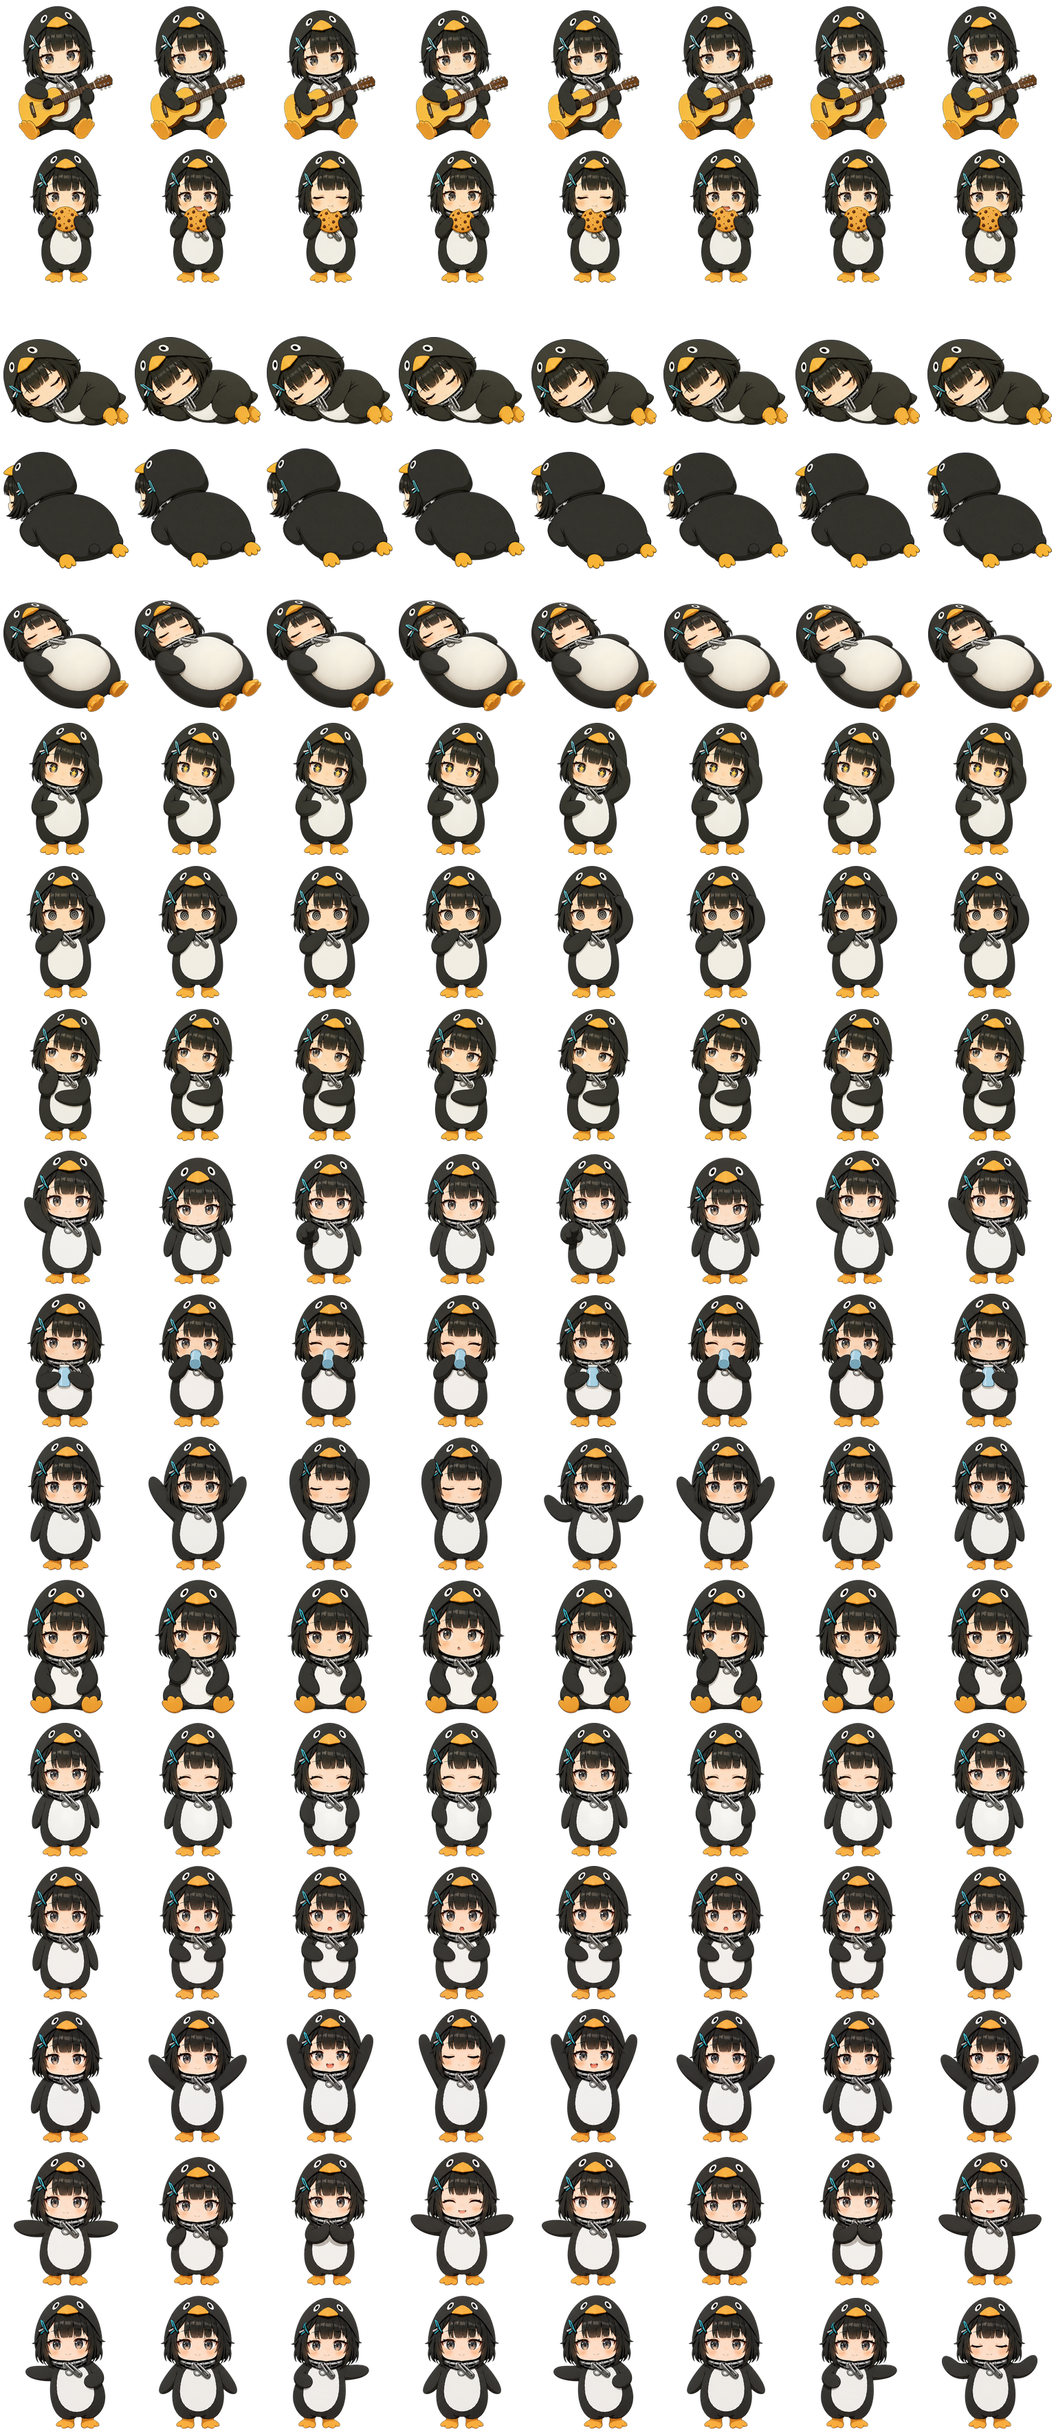
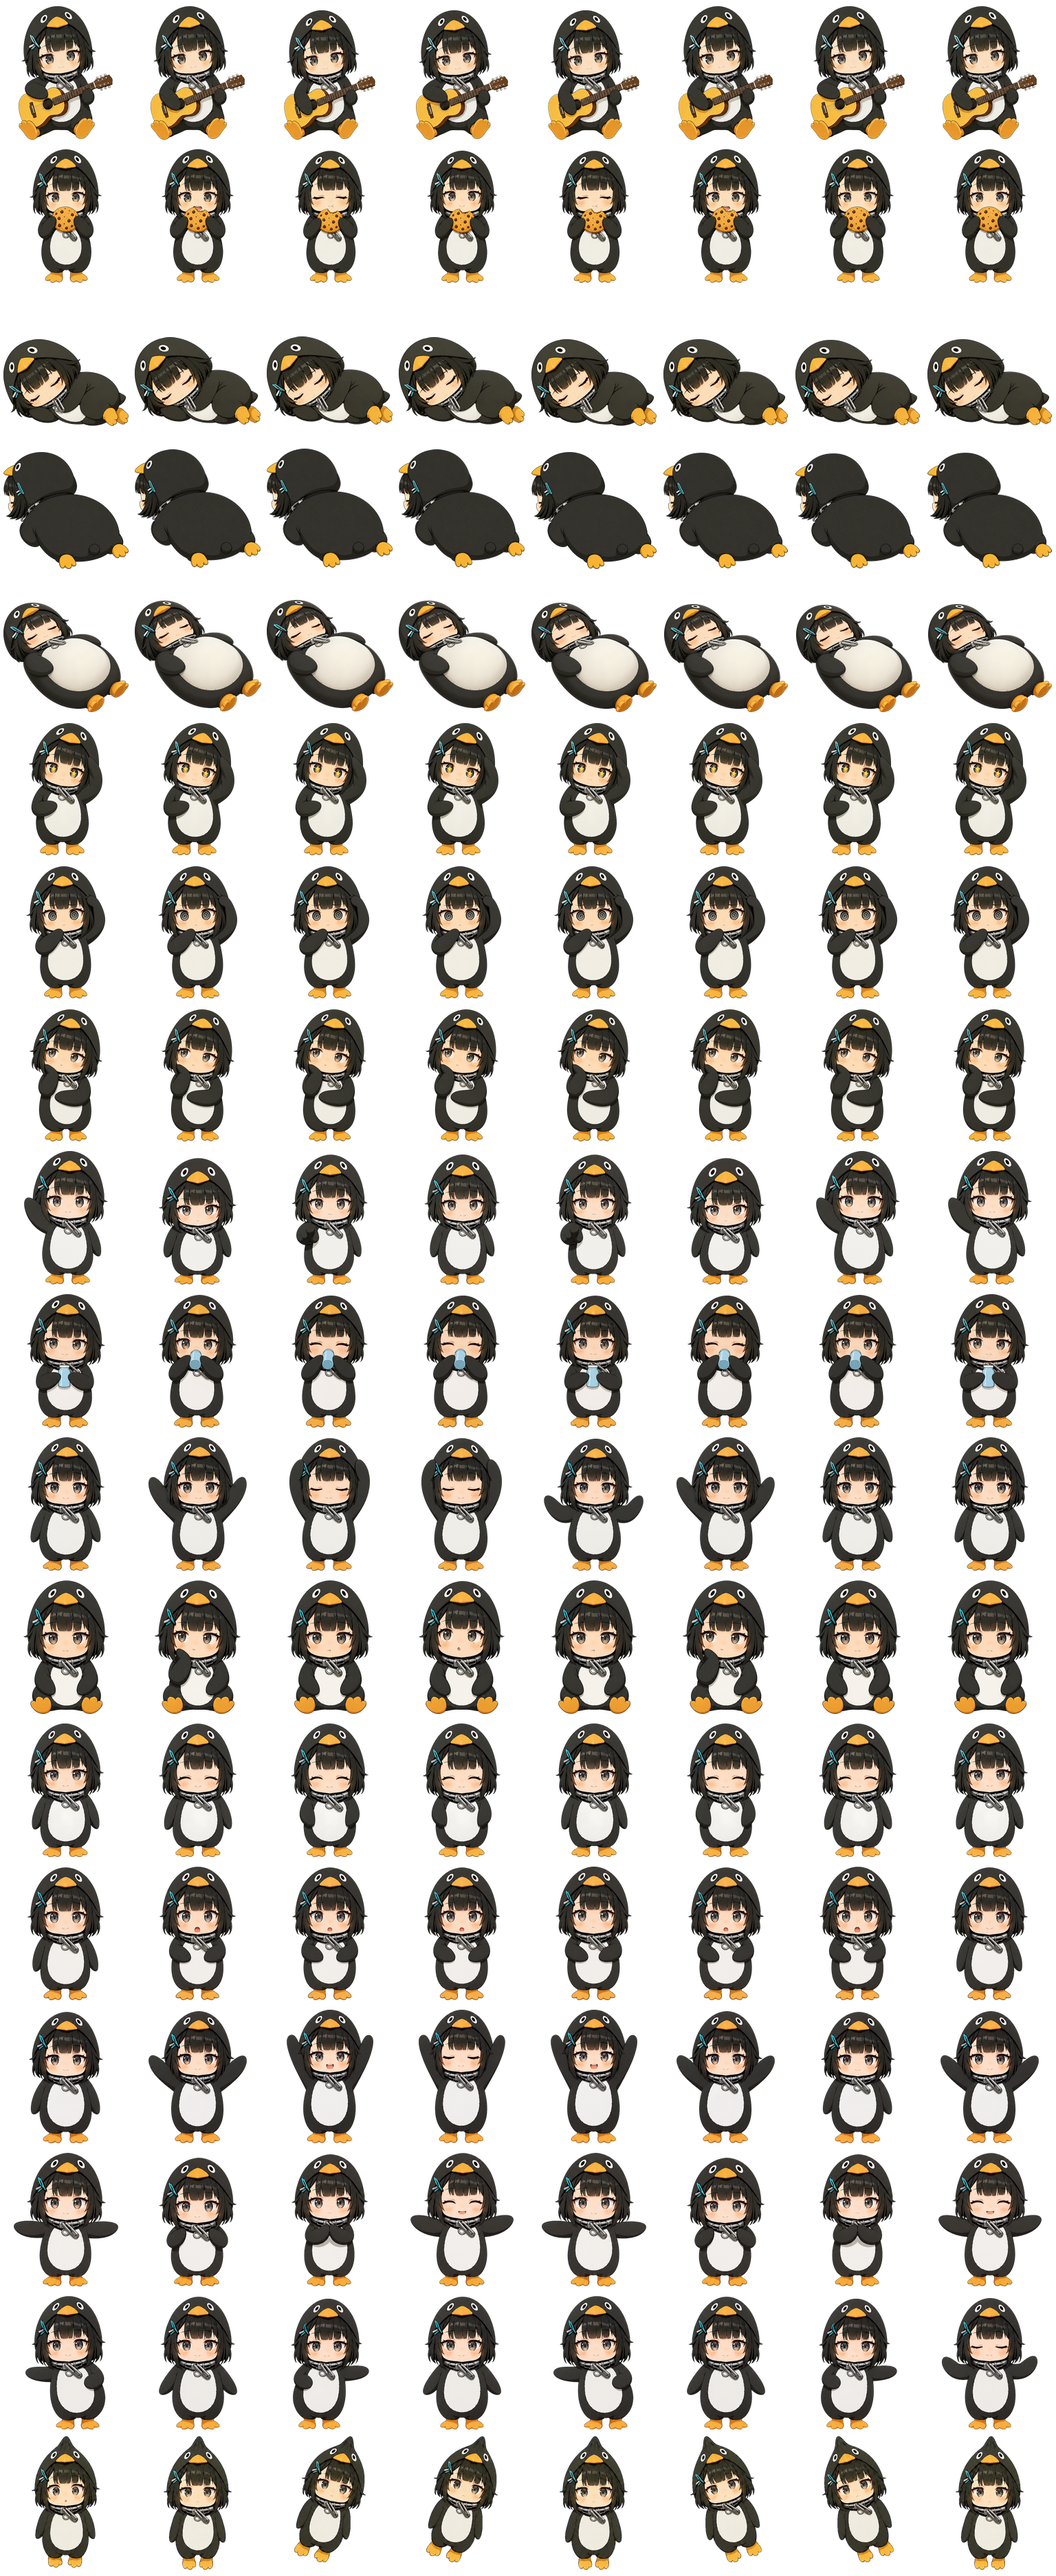
feat: add hood-lift drag animation

diff --git a/tools/build_idle_atlas.py b/tools/build_idle_atlas.py
@@ -11,6 +11,7 @@ CONCEPTS = ROOT.parent / "work" / "gugu-idle-concepts" / "generated"
 THINKING = ROOT.parent / "work" / "gugu-thinking-concepts"
 PERSONALITY = ROOT.parent / "work" / "gugu-personality-actions" / "generated"
 CELEBRATIONS = ROOT.parent / "work" / "gugu-completion-celebrations" / "generated"
+PASSIVE_DRAG = ROOT.parent / "work" / "gugu-passive-drag" / "generated"
 OUTPUT = ROOT / "Assets" / "idle-actions.png"
 
 CELL_W = 192
@@ -35,6 +36,7 @@ ROWS = (
     ("celebrate-cheer", "gugu-celebration-cheer-keyposes-transparent.png"),
     ("celebrate-clap", "gugu-celebration-clap-keyposes-transparent.png"),
     ("celebrate-dance", "gugu-celebration-dance-keyposes-transparent.png"),
+    ("passive-drag", "gugu-passive-drag-keyposes-transparent.png"),
 )
 
 KEYPOSE_FILES = {
@@ -49,6 +51,7 @@ KEYPOSE_FILES = {
     "celebrate-cheer": "gugu-celebration-cheer-keyposes-transparent.png",
     "celebrate-clap": "gugu-celebration-clap-keyposes-transparent.png",
     "celebrate-dance": "gugu-celebration-dance-keyposes-transparent.png",
+    "passive-drag": "gugu-passive-drag-keyposes-transparent.png",
 }
 
 KEYPOSE_SEQUENCE = {
@@ -65,6 +68,8 @@ KEYPOSE_SEQUENCE = {
     "celebrate-cheer": (0, 1, 2, 3, 2, 1, 0, 1),
     "celebrate-clap": (0, 1, 2, 3, 0, 1, 2, 3),
     "celebrate-dance": (0, 1, 2, 1, 0, 1, 2, 3),
+    # Lift, centered hang, screen-left lag, centered, then screen-right lag.
+    "passive-drag": (0, 1, 2, 2, 1, 3, 3, 1),
 }
 
 
@@ -115,9 +120,10 @@ def load_keyposes(path: Path) -> list[Image.Image]:
     ]
 
 
-def place_pose(pose: Image.Image) -> Image.Image:
+def place_pose(pose: Image.Image, *, anchor_top: bool = False) -> Image.Image:
     frame = Image.new("RGBA", (CELL_W, CELL_H), (0, 0, 0, 0))
-    frame.alpha_composite(pose, ((CELL_W - pose.width) // 2, CELL_H - pose.height - 5))
+    y = 5 if anchor_top else CELL_H - pose.height - 5
+    frame.alpha_composite(pose, ((CELL_W - pose.width) // 2, y))
     return frame
 
 
@@ -172,14 +178,20 @@ def transformed_frame(source: Image.Image, row_name: str, phase: float) -> Image
 def main() -> None:
     atlas = Image.new("RGBA", (CELL_W * FRAMES, CELL_H * len(ROWS)), (0, 0, 0, 0))
     for row, (row_name, filename) in enumerate(ROWS):
-        keypose_root = CELEBRATIONS if row_name.startswith("celebrate-") else PERSONALITY if row_name in {
-            "needs-input", "drink", "stretch", "sit-think", "head-pat", "belly-poke"
-        } else CONCEPTS
+        keypose_root = (
+            CELEBRATIONS if row_name.startswith("celebrate-")
+            else PASSIVE_DRAG if row_name == "passive-drag"
+            else PERSONALITY if row_name in {
+                "needs-input", "drink", "stretch", "sit-think", "head-pat", "belly-poke"
+            }
+            else CONCEPTS
+        )
         keypose_path = keypose_root / KEYPOSE_FILES.get(row_name, "")
         if row_name in KEYPOSE_FILES and keypose_path.exists():
             poses = load_keyposes(keypose_path)
             for column, pose_index in enumerate(KEYPOSE_SEQUENCE[row_name]):
-                atlas.alpha_composite(place_pose(poses[pose_index]), (column * CELL_W, row * CELL_H))
+                frame = place_pose(poses[pose_index], anchor_top=row_name == "passive-drag")
+                atlas.alpha_composite(frame, (column * CELL_W, row * CELL_H))
             print(f"Using semantic key poses for {row_name}: {keypose_path}")
             continue
 

diff --git a/tools/make_passive_drag_qa.py b/tools/make_passive_drag_qa.py
@@ -1,0 +1,75 @@
+from __future__ import annotations
+
+from pathlib import Path
+
+from PIL import Image, ImageDraw, ImageFont
+
+
+ROOT = Path(__file__).resolve().parents[1]
+ATLAS = ROOT / "Assets" / "idle-actions.png"
+OUTPUT_DIR = ROOT.parent / "work" / "gugu-passive-drag" / "qa"
+CELL_W, CELL_H = 192, 208
+ROW = 17
+
+
+def font(size: int):
+    path = Path(r"C:\Windows\Fonts\msyh.ttc")
+    return ImageFont.truetype(str(path), size) if path.exists() else ImageFont.load_default()
+
+
+def checkerboard() -> Image.Image:
+    image = Image.new("RGBA", (CELL_W, CELL_H), (239, 241, 245, 255))
+    draw = ImageDraw.Draw(image)
+    tile = 16
+    for y in range(0, CELL_H, tile):
+        for x in range(0, CELL_W, tile):
+            if (x // tile + y // tile) % 2:
+                draw.rectangle((x, y, x + tile - 1, y + tile - 1), fill=(222, 225, 231, 255))
+    return image
+
+
+def main() -> None:
+    atlas = Image.open(ATLAS).convert("RGBA")
+    OUTPUT_DIR.mkdir(parents=True, exist_ok=True)
+    scale = 2
+    frame_w, frame_h = CELL_W * scale, CELL_H * scale
+    label_h = 38
+    sheet = Image.new("RGB", (frame_w * 4, (frame_h + label_h) * 2), (239, 241, 245))
+    draw = ImageDraw.Draw(sheet)
+    gif_frames: list[Image.Image] = []
+    boxes: list[tuple[int, int, int, int]] = []
+
+    for column in range(8):
+        frame = atlas.crop((column * CELL_W, ROW * CELL_H, (column + 1) * CELL_W, (ROW + 1) * CELL_H))
+        bbox = frame.getbbox()
+        if bbox is None:
+            raise ValueError(f"blank passive-drag frame {column + 1}")
+        boxes.append(bbox)
+        preview = checkerboard()
+        preview.alpha_composite(frame)
+        enlarged = preview.resize((frame_w, frame_h), Image.Resampling.NEAREST)
+        gif_frames.append(enlarged.convert("P", palette=Image.Palette.ADAPTIVE))
+
+        x = (column % 4) * frame_w
+        y = (column // 4) * (frame_h + label_h)
+        sheet.paste(enlarged.convert("RGB"), (x, y + label_h))
+        draw.text((x + 12, y + 7), f"Frame {column + 1}", font=font(20), fill=(31, 33, 38))
+
+    sheet_path = OUTPUT_DIR / "passive-drag-contact-sheet.png"
+    gif_path = OUTPUT_DIR / "passive-drag-preview.gif"
+    sheet.save(sheet_path)
+    gif_frames[0].save(
+        gif_path,
+        save_all=True,
+        append_images=gif_frames[1:],
+        duration=105,
+        loop=0,
+        disposal=2,
+    )
+    print(sheet_path)
+    print(gif_path)
+    print("bboxes:", boxes)
+
+
+if __name__ == "__main__":
+    main()

diff --git a/tools/remove_passive_drag_blue.py b/tools/remove_passive_drag_blue.py
@@ -1,0 +1,49 @@
+from pathlib import Path
+
+from PIL import Image
+
+
+ROOT = Path(__file__).resolve().parents[2]
+SOURCE = ROOT / "work" / "gugu-passive-drag" / "passive-drag-keyposes.png"
+OUTPUT = ROOT / "work" / "gugu-passive-drag" / "generated" / "gugu-passive-drag-keyposes-transparent.png"
+
+
+def remove_deep_blue_screen(image: Image.Image) -> Image.Image:
+    """Remove the generated deep-blue screen without erasing blue-gray eyes."""
+    result = image.convert("RGBA")
+    pixels = result.load()
+
+    for y in range(result.height):
+        for x in range(result.width):
+            r, g, b, a = pixels[x, y]
+            channel_floor = max(r, g)
+            blue_dominance = b - channel_floor
+
+            dominance_key = max(0.0, min(1.0, (blue_dominance - 55) / 115))
+            brightness_key = max(0.0, min(1.0, (b - 80) / 120))
+            dark_channel_key = max(0.0, min(1.0, (90 - channel_floor) / 70))
+            key_amount = dominance_key * brightness_key * dark_channel_key
+
+            if b >= 170 and channel_floor <= 50 and blue_dominance >= 130:
+                key_amount = 1.0
+
+            new_alpha = round(a * (1.0 - key_amount))
+            if new_alpha == 0:
+                pixels[x, y] = (0, 0, 0, 0)
+            elif new_alpha < a:
+                # Reduce residual blue spill on partially transparent contour pixels.
+                corrected_blue = min(b, channel_floor + 24)
+                pixels[x, y] = (r, g, corrected_blue, new_alpha)
+
+    return result
+
+
+def main() -> None:
+    OUTPUT.parent.mkdir(parents=True, exist_ok=True)
+    image = remove_deep_blue_screen(Image.open(SOURCE))
+    image.save(OUTPUT, optimize=True)
+    print(f"Wrote {OUTPUT} ({image.width}x{image.height})")
+
+
+if __name__ == "__main__":
+    main()

diff --git a/PetWindow.xaml.cs b/PetWindow.xaml.cs
@@ -393,7 +393,7 @@ public partial class PetWindow : Window
     {
         var persistentCodexState = _transientState is null &&
                                    !_baseState.Equals("idle", StringComparison.OrdinalIgnoreCase);
-        _sequence = _roaming || persistentCodexState
+        _sequence = _roaming || _dragging || persistentCodexState
             ? AnimationCatalog.GetLoopingSequence(CurrentState, _reducedMotion)
             : AnimationCatalog.GetSequence(CurrentState, _reducedMotion);
         _frameIndex = 0;
@@ -583,6 +583,7 @@ public partial class PetWindow : Window
         var dy = cursor.Y - _dragStartCursor.Y;
         if (!_dragging && dx * dx + dy * dy < 36) return;
         _dragging = true;
+        var dragStepX = cursor.X - _lastDragCursor.X;
         Left = _dragStartLeft + dx;
         Top = _dragStartTop + dy;
         var elapsed = _dragMotionClock.Elapsed.TotalSeconds;
@@ -595,8 +596,9 @@ public partial class PetWindow : Window
             _lastDragCursor = cursor;
             _dragMotionClock.Restart();
         }
-        if (dx >= 4) PlayTransient("running-right");
-        else if (dx <= -4) PlayTransient("running-left");
+        if (dragStepX >= 1) PlayTransient("drag-right");
+        else if (dragStepX <= -1) PlayTransient("drag-left");
+        else PlayTransient("drag-held");
     }
 
     private void PetWindow_OnMouseLeftButtonUp(object sender, MouseButtonEventArgs e)

diff --git a/AnimationCatalog.cs b/AnimationCatalog.cs
@@ -61,7 +61,10 @@ public static class AnimationCatalog
         ["belly-poke"] = IdleActionRow(13, 145, 230),
         ["celebrate-cheer"] = IdleActionRow(14, 135, 260),
         ["celebrate-clap"] = IdleActionRow(15, 115, 180),
-        ["celebrate-dance"] = IdleActionRow(16, 140, 220)
+        ["celebrate-dance"] = IdleActionRow(16, 140, 220),
+        ["drag-held"] = IdleActionColumns(17, 120, 0, 1, 0, 1),
+        ["drag-right"] = IdleActionColumns(17, 105, 1, 2, 3, 2),
+        ["drag-left"] = IdleActionColumns(17, 105, 4, 5, 6, 5)
     };
 
     public static bool IsValidState(string? state) =>
@@ -127,4 +130,11 @@ public static class AnimationCatalog
                 column == 7 ? finalDuration : duration,
                 SpriteSheetKind.IdleActions))
             .ToArray();
+
+    private static SpriteFrame[] IdleActionColumns(int row, int duration, params int[] columns) =>
+        columns.Select(column => new SpriteFrame(
+            row,
+            column,
+            duration,
+            SpriteSheetKind.IdleActions)).ToArray();
 }

diff --git a/tools/make_idle_preview.py b/tools/make_idle_preview.py
@@ -14,6 +14,7 @@ LABELS = (
     "需要输入", "喝水", "伸懒腰",
     "坐着思考", "摸摸头", "护住肚子",
     "胜利欢呼", "开心鼓掌", "企鹅摇摆舞",
+    "拎住头套",
 )
 
 

diff --git a/README.ja.md b/README.ja.md
@@ -24,7 +24,7 @@
 
 - 待機アニメーション
 - マウスホバーでジャンプ
-- 左ボタンでドラッグ中に左右へ走る
+- 左ボタンでドラッグすると、咕嘎はペンギンフードをつままれて宙づりになり、移動方向に合わせて揺れる。自動散歩では従来の歩行アニメーションを使用
 - 初回起動時に手を振る
 - 咕嘎の起動時に約 5 秒間の魚眼レンズ風登場演出を再生：待機、箱を押す、スーツケースによじ登る、レンズへ近づく、まばたき。コントロールパネルで無効化・プレビューでき、Esc キーでスキップ可能
 - 既定では起動時に咕嘎だけを表示し、コントロールパネルは開きません。登場アニメーション設定からパネルの同時表示を再度有効にできます

diff --git a/README.en.md b/README.en.md
@@ -24,7 +24,7 @@ The current release is not yet Authenticode-signed. Windows SmartScreen may disp
 
 - Idle animations
 - Hover-triggered jump
-- Running left or right while dragged with the left mouse button
+- While dragged with the left mouse button, Gugu is lifted by the penguin hood and sways with the movement; autonomous roaming keeps the original walking animation
 - First-launch wave
 - A roughly five-second peephole entrance when GuguPet starts: waiting, pushing a box, climbing onto a suitcase, approaching the lens, and blinking. It can be disabled or previewed from the control panel, and skipped with Esc
 - By default, startup shows only Gugu without opening the control panel. The panel-on-start option can be restored under the entrance-animation settings

diff --git a/README.md b/README.md
@@ -24,7 +24,7 @@
 
 - 待机动画
 - 悬停跳跃
-- 左键拖动时向左/向右奔跑
+- 左键拖动时，咕嘎会被拎住企鹅头套悬起并随拖动方向轻摆；主动漫步仍使用原步行动画
 - 初次启动挥手
 - 启动咕嘎程序时播放约 5 秒的猫眼登场：等待、推箱、爬上行李箱、贴近镜头并眨眼；可在控制台关闭或随时预览，按 Esc 跳过
 - 默认启动后只显示咕嘎，不弹出控制台；可在“咕嘎登场动画”设置中恢复随启动显示控制台
